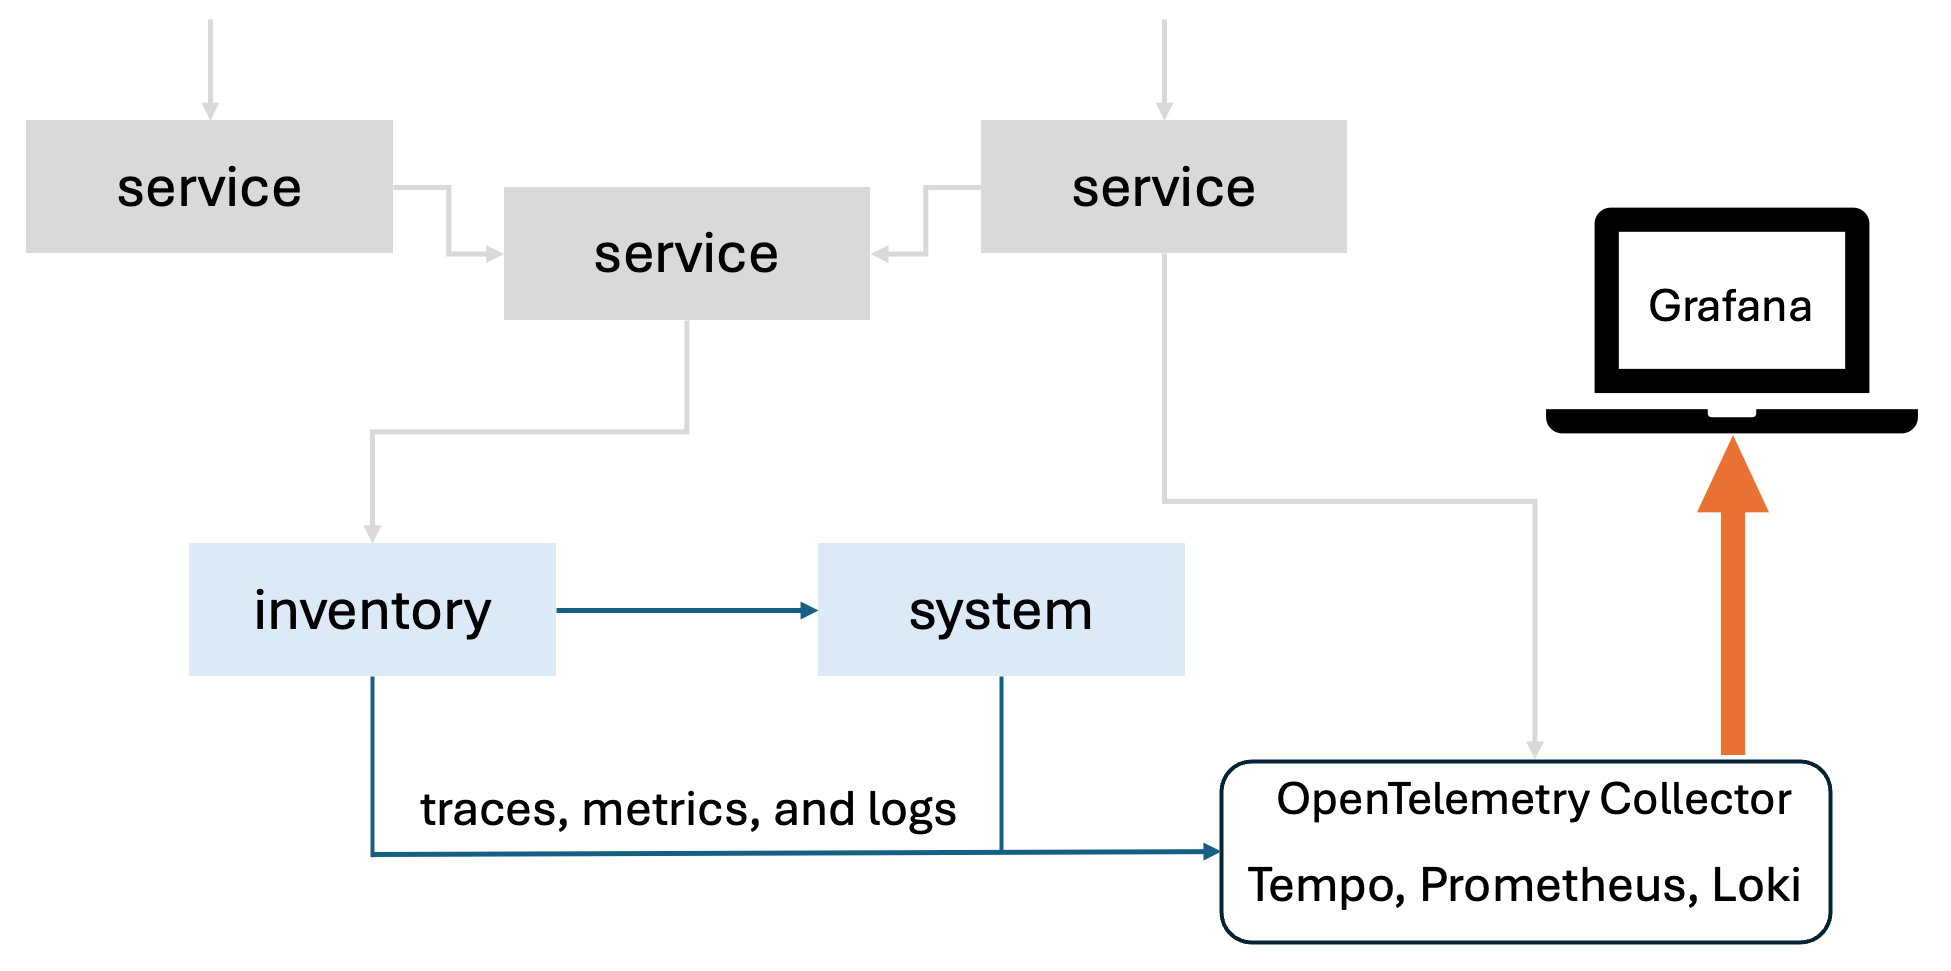
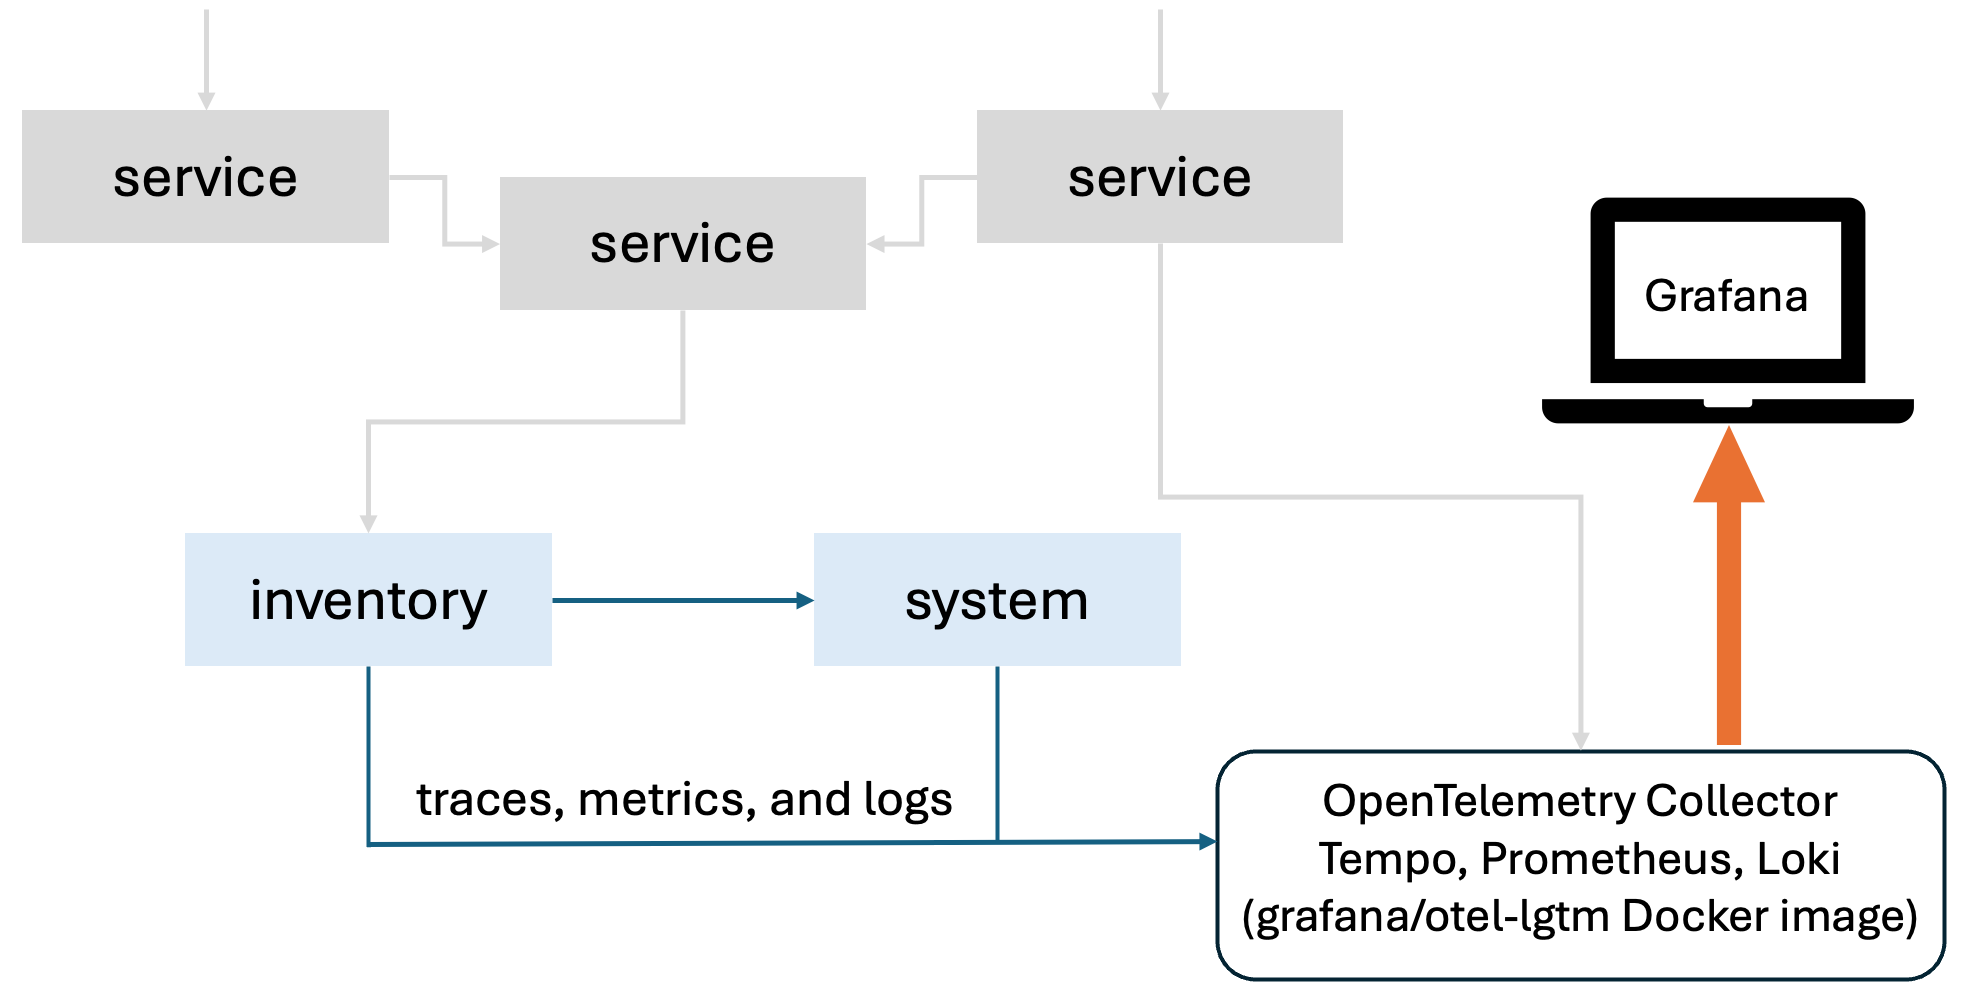
address dev content review

Changed region(s): [[0.0, 0.0309, 1.0, 0.9887], [0.0, 0.0309, 0.2153, 0.1236]]

diff --git a/staging/inventory/src/main/java/io/openliberty/guides/inventory/InventoryManager.java b/staging/inventory/src/main/java/io/openliberty/guides/inventory/InventoryManager.java
@@ -57,10 +57,10 @@ public class InventoryManager {
         }
     }
 
+    // tag::listMethod[]
     // tag::listWithSpan[]
     @WithSpan
     // end::listWithSpan[]
-    // tag::listMethod[]
     public InventoryList list() {
         return new InventoryList(new ArrayList<>(systems.values()));
     }